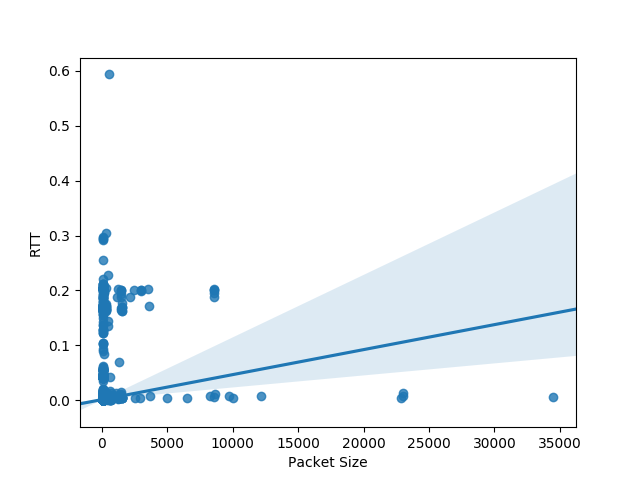
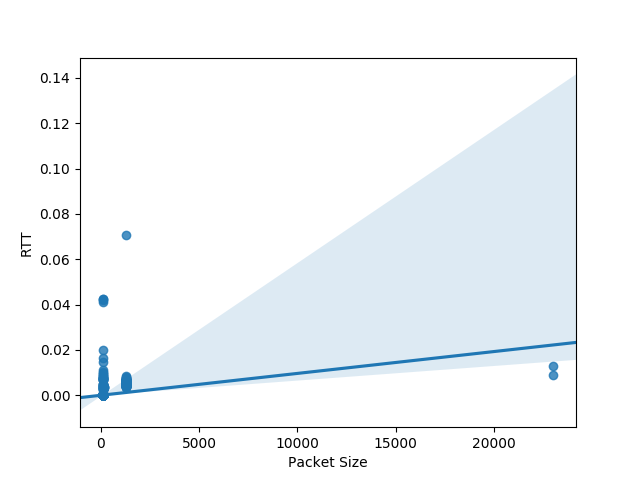
graphs updated

diff --git a/rtt_linear_regression.py b/rtt_linear_regression.py
@@ -37,7 +37,7 @@ if __name__ == '__main__':
 
 	plot(new_df,"Packet Size", "Min RTT")
 	new_df['zscore'] = zscore(new_df["Min RTT"])
-	new_df = new_df[new_df["zscore"] < 1]
+	new_df = new_df[new_df["zscore"] < 3]
 	plot(new_df, "Packet Size", "Min RTT")
 
 
